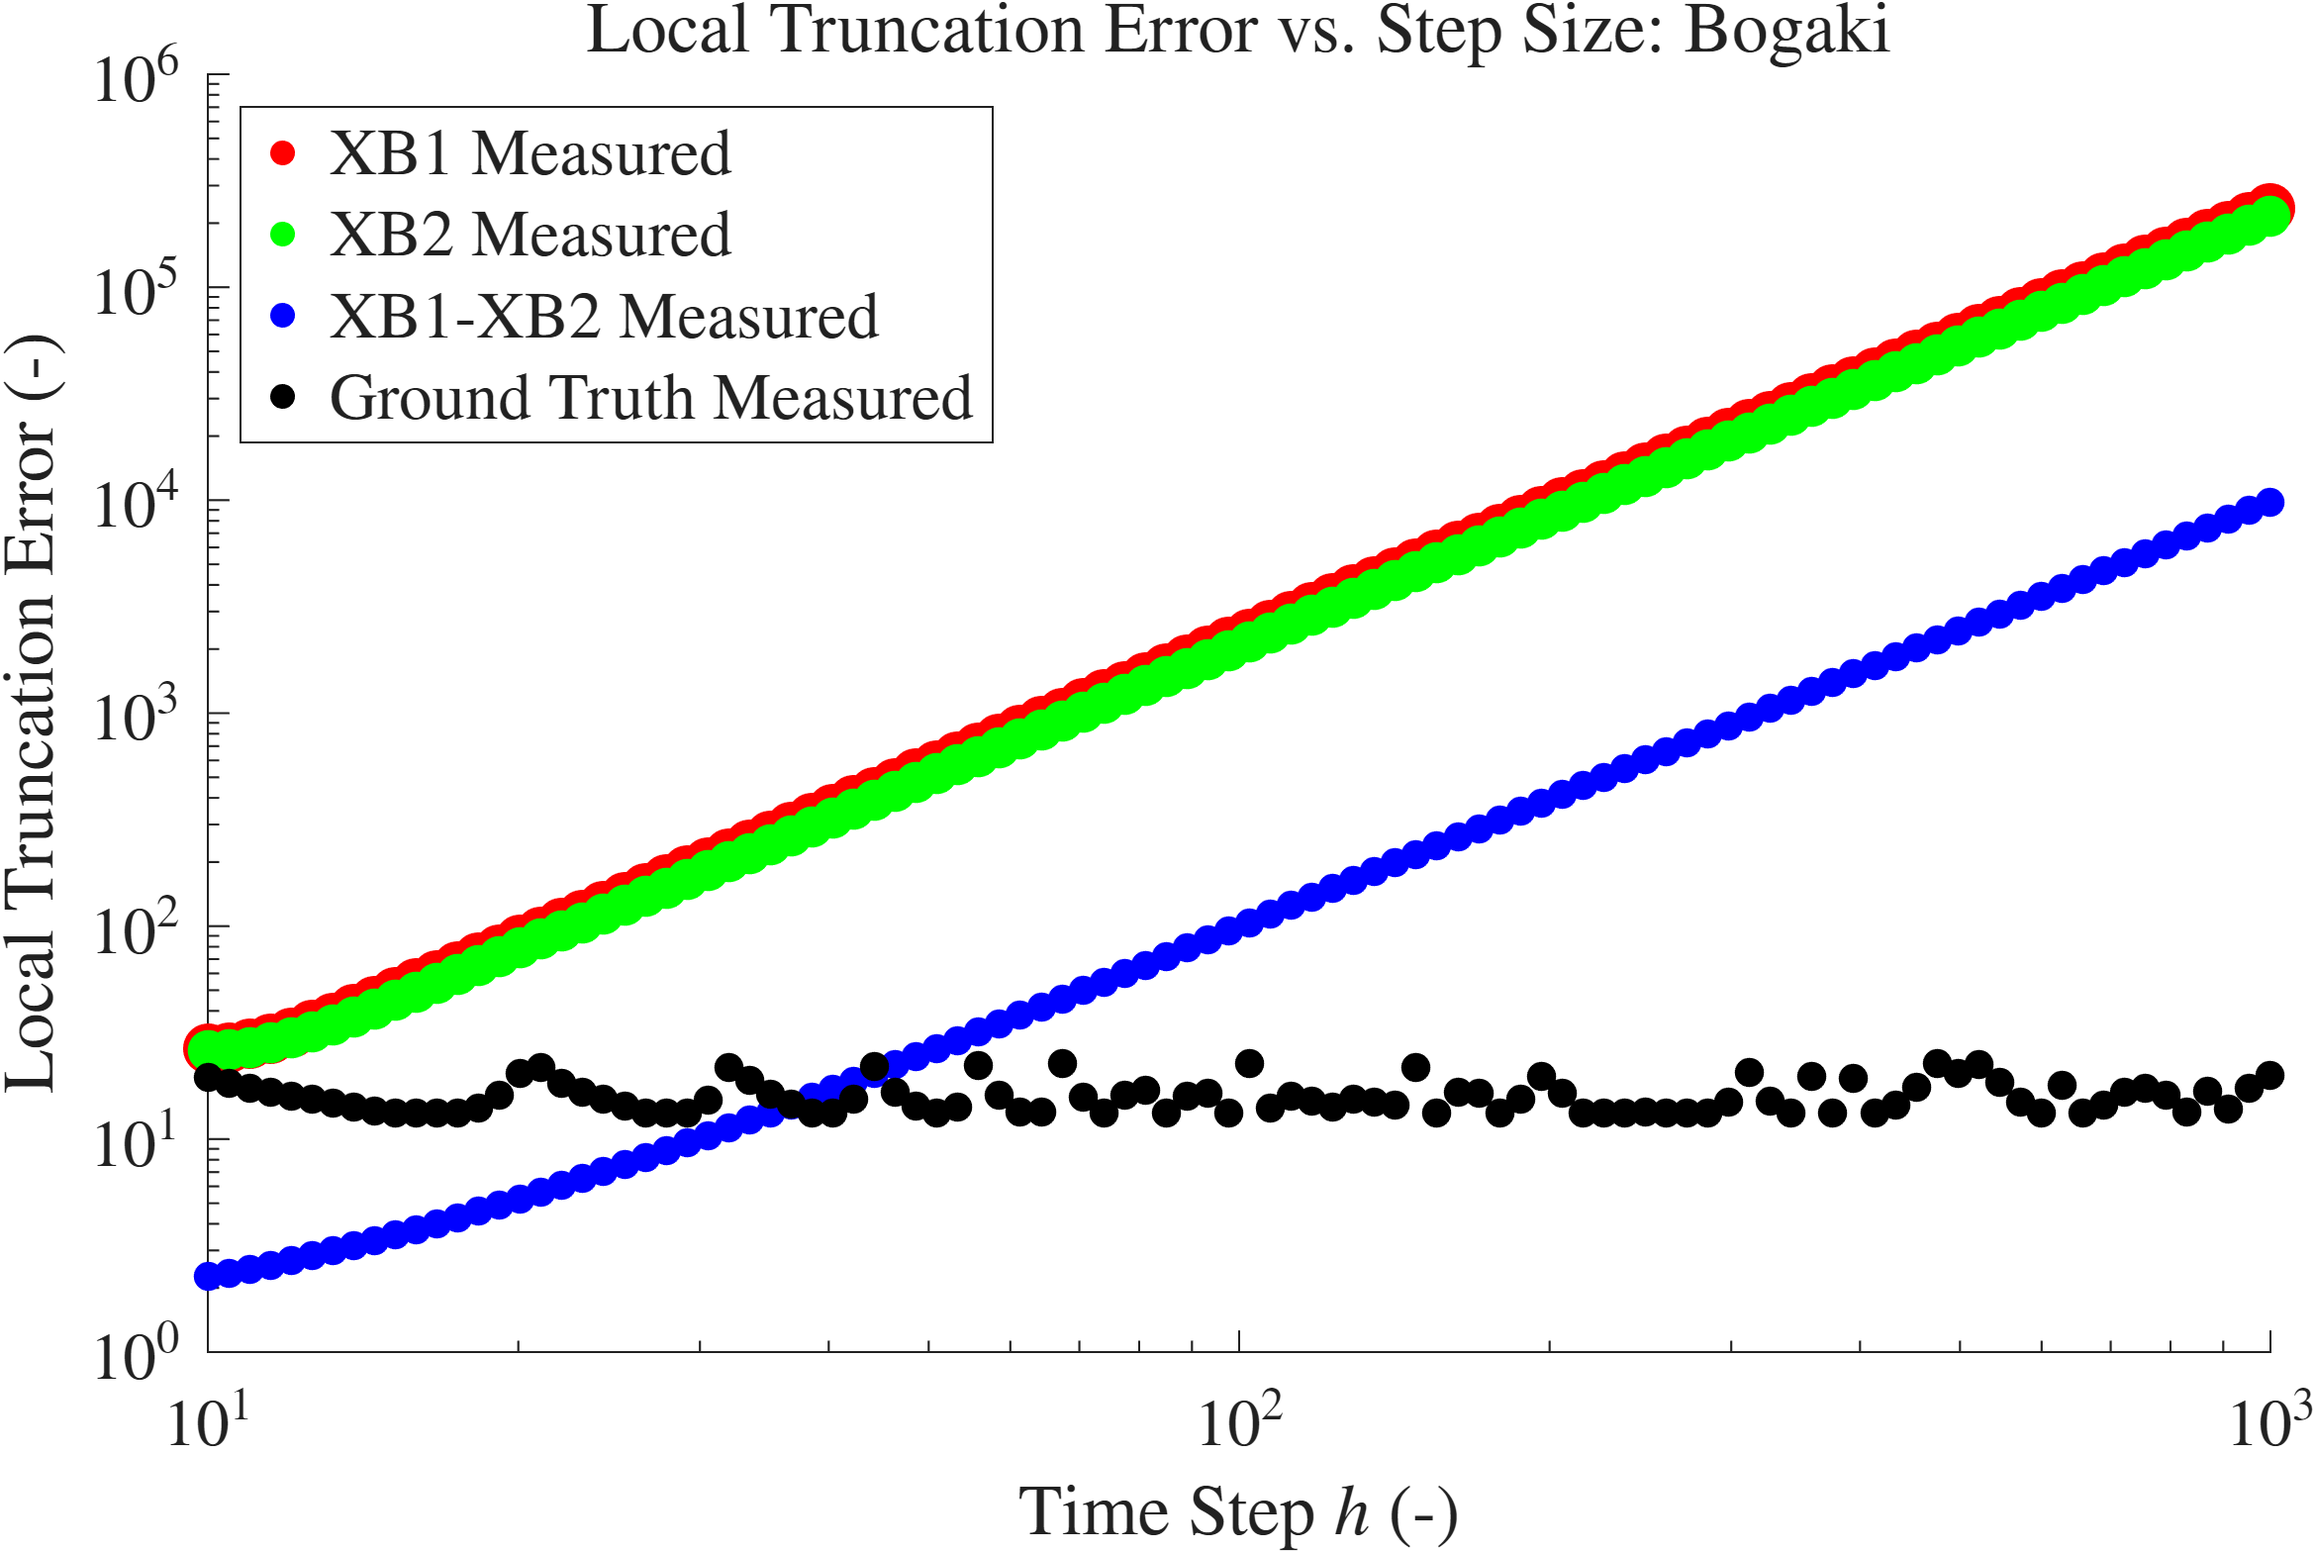
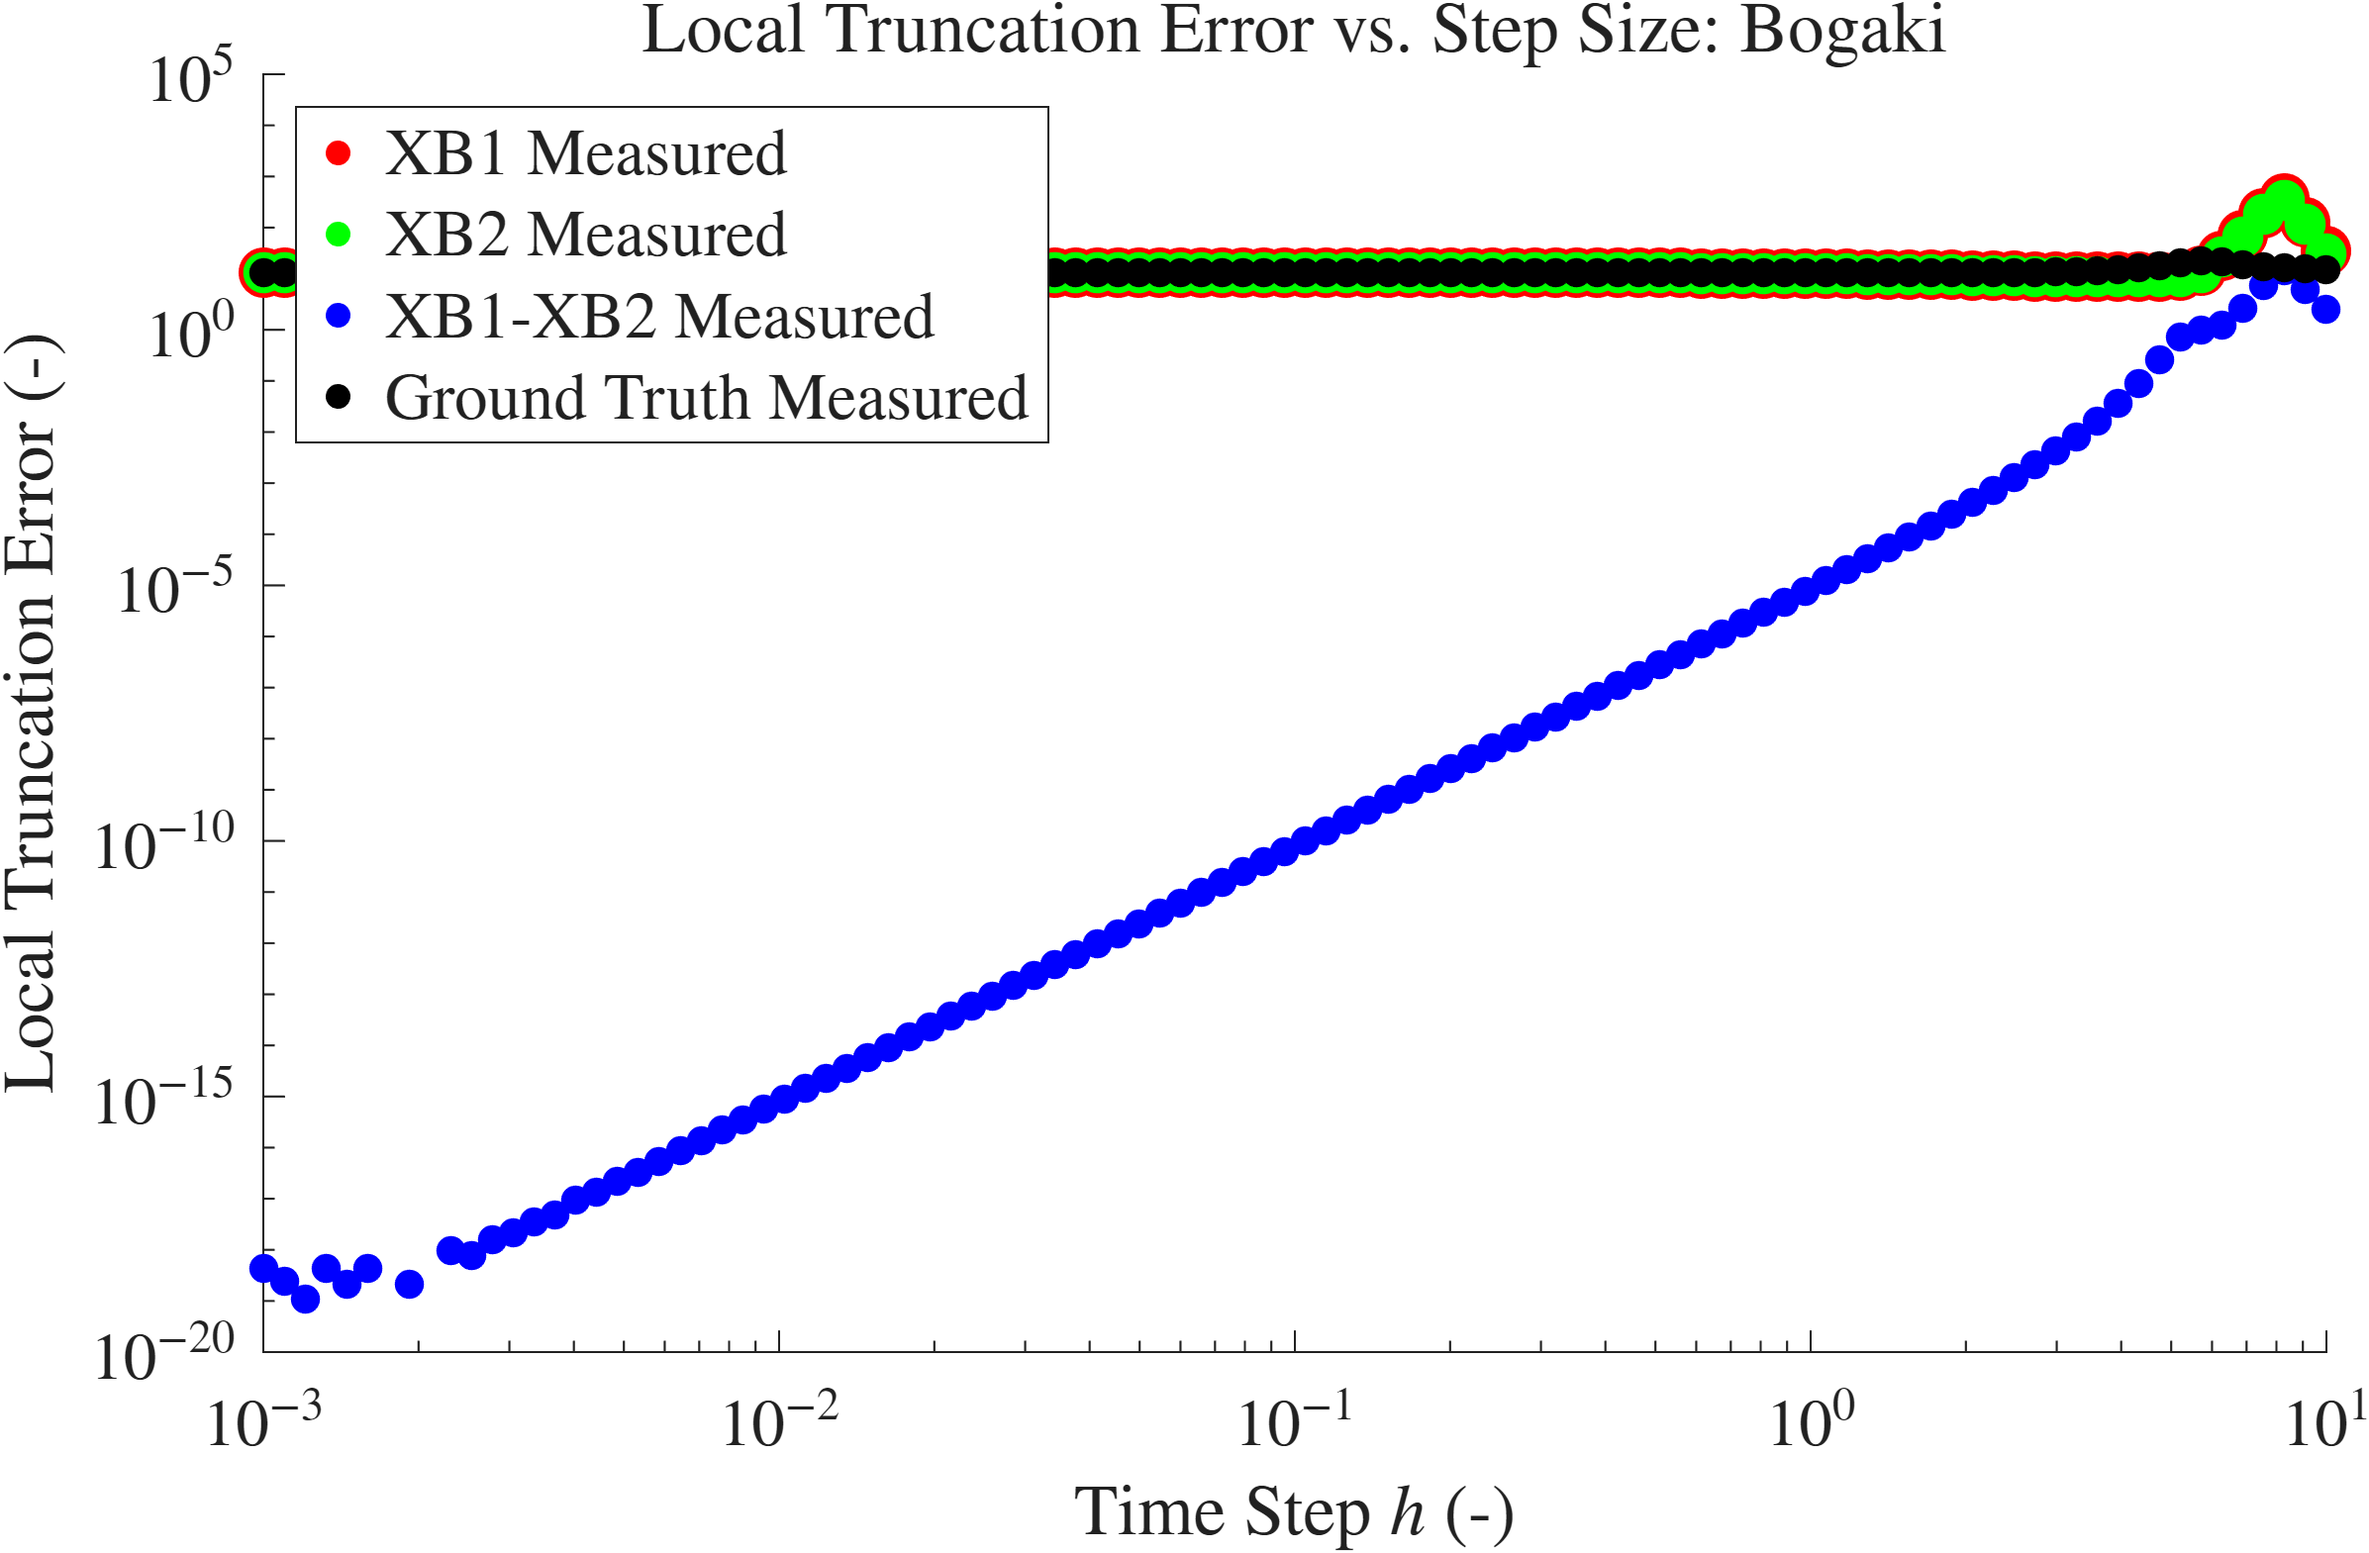
first attempt to do variable timesteps

diff --git a/explicit_RK_variable_step_integration.m b/explicit_RK_variable_step_integration.m
@@ -1,0 +1,48 @@
+%Runs numerical integration arbitrary RK method using variable time steps
+%INPUTS:
+%rate_func_in: the function used to compute dXdt. rate_func_in will
+% have the form: dXdt = rate_func_in(t,X) (t is before X)
+%tspan: a two element vector [t_start,t_end] that denotes the integration endpoints
+%X0: the vector describing the initial conditions, X(t_start)
+%h_ref: the desired value of the average step size (not the actual value)
+%BT_struct: a struct that contains the Butcher tableau
+% BT_struct.A: matrix of a_{ij} values
+% BT_struct.B: vector of b_i values
+% BT_struct.C: vector of c_i values
+%p: how error scales with step size (error = k*hˆp)
+%error_desired: the desired local truncation error at each step
+%OUTPUTS:
+%t_list: the vector of times, [t_start;t_1;t_2;...;.t_end] that X is approximated at
+%X_list: the vector of X, [X0';X1';X2';...;(X_end)'] at each time step
+%h_avg: the average step size
+%num_evals: total number of calls made to rate_func_in during the integration
+function [t_list,X_list,h_avg, num_evals] = explicit_RK_variable_step_integration(rate_func_in,tspan,X0,h_ref,BT_struct,p,error_desired)
+
+    num_evals = 0;
+    XA = X0;
+    curr_t = tspan(1);
+    t_list = [curr_t];
+    X_list = [XA];
+    curr_h = h_ref;
+    h_list = [curr_h];
+    
+    while curr_t <= tspan(2)
+        [XB, num_evals, h_next, redo] = explicit_RK_variable_step(rate_func_in,curr_t,XA,curr_h,BT_struct,p,error_desired);
+        num_evals = num_evals + evals;
+        if redo == 1
+            curr_h = curr_h / 2;
+        else
+            X_list = [X_list, XB];
+            XA = XB;
+            curr_t = curr_t + h_next;
+            t_list = [t_list, curr_t];
+            curr_h = h_next;
+            h_list = [h_list, curr_h];
+        end
+
+        if tspan(2) - curr_t < h_next
+            h_next = tspan(2) - curr_t
+        end
+    end
+    h_avg = mean(h_list);
+end

diff --git a/explicit_RK_variable_step.m b/explicit_RK_variable_step.m
@@ -22,24 +22,37 @@
 %h_next: the time-step size at the next iteration
 %redo: False if the estimated error was less than error_desired
 % True if the estimated error was larger than error_desired
-function [X1_list, X2_list, num_evals] = explicit_RK_variable_step_test...
-(rate_func_in,tspan,X0,h_ref,BT_struct)
-    n_steps = ceil((tspan(2)-tspan(1))/h_ref);
+function [XB, num_evals, h_next, redo] = explicit_RK_variable_step(rate_func_in,t,XA,h,BT_struct,p,error_desired)
 
-    h_avg = (tspan(2) - tspan(1))/n_steps;
-    num_evals = 0;
-    XA = X0;
-    t_list = linspace(tspan(1), tspan(2), n_steps+1);
-    X1_list = [XA];
-    X2_list = [XA];
-    
-    for i = 1:n_steps
-        [XB1, XB2, evals] = RK_step_embedded(rate_func_in, t_list(i), XA, h_avg, BT_struct);
-        num_evals = num_evals + evals;
-        X1_list = [X1_list, XB1];
-        X2_list = [X2_list, XB2];
-        
-        XA = XB2;
+    a = BT_struct.A;
+    b = BT_struct.B;
+    c = BT_struct.C;
+
+    alpha = 1.5;
+
+    k = zeros(length(c), length(XA));
+
+    for i = 1:length(c)
+
+        sum_as = (a(i, :)) * k;
+
+        k(i, :) = rate_func_in(t + c(i)*h, XA + h*sum_as');
+
     end
 
+    XB1 = XA + (h*b(1,:)*k)';
+    XB2 = XA + (h*b(2,:)*k)';
+
+    calc_error = norm(XB1-XB2);
+
+    if calc_error >= error_desired
+        redo = 1;
+    else
+        redo = 0; 
+    end
+
+
+    h_next = min(0.9*(error_desired/calc_error)^(1/p), alpha) * h;
+    XB = XB2;
+    num_evals = length(k(1, :)); 
 end

diff --git a/embedded_local_trunc.m b/embedded_local_trunc.m
@@ -1,10 +1,10 @@
-BT_struct = butcher_tableau("Bogacki");
+BT_struct = butcher_tableau("DormandPrince");
 
 
 
 % Constants
-t_ref = 10;
-h_step = logspace(1, 3, 100);
+t_ref = 0;
+h_step = logspace(-3, 1, 100);
 % X0 = 1;
 
 orbit_params = struct();
@@ -39,7 +39,7 @@ for i = 1:length(h_step)
     XB2_err_list = [XB2_err_list, norm(XB2 - gt')];
     diff_err_list = [diff_err_list, norm(XB1 - XB2)];
 
-    gt_err_list = [gt_err_list, norm(gt' - V0)];
+    gt_err_list = [gt_err_list, norm(gt' - X0)];
 
 
 end

diff --git a/RK_step_embedded.m b/RK_step_embedded.m
@@ -30,7 +30,17 @@ function [XB1, XB2, num_evals] = RK_step_embedded(rate_func_in,t,XA,h,BT_struct)
 
     end
 
+    format long
+
     XB1 = XA + (h*b(1,:)*k)';
+    XB1
     XB2 = XA + (h*b(2,:)*k)';
+    XB2
+
+    k
+    h
+
+    b(1,:)*k
+    b(2,:)*k
     num_evals = length(k(1, :)); 
 end
